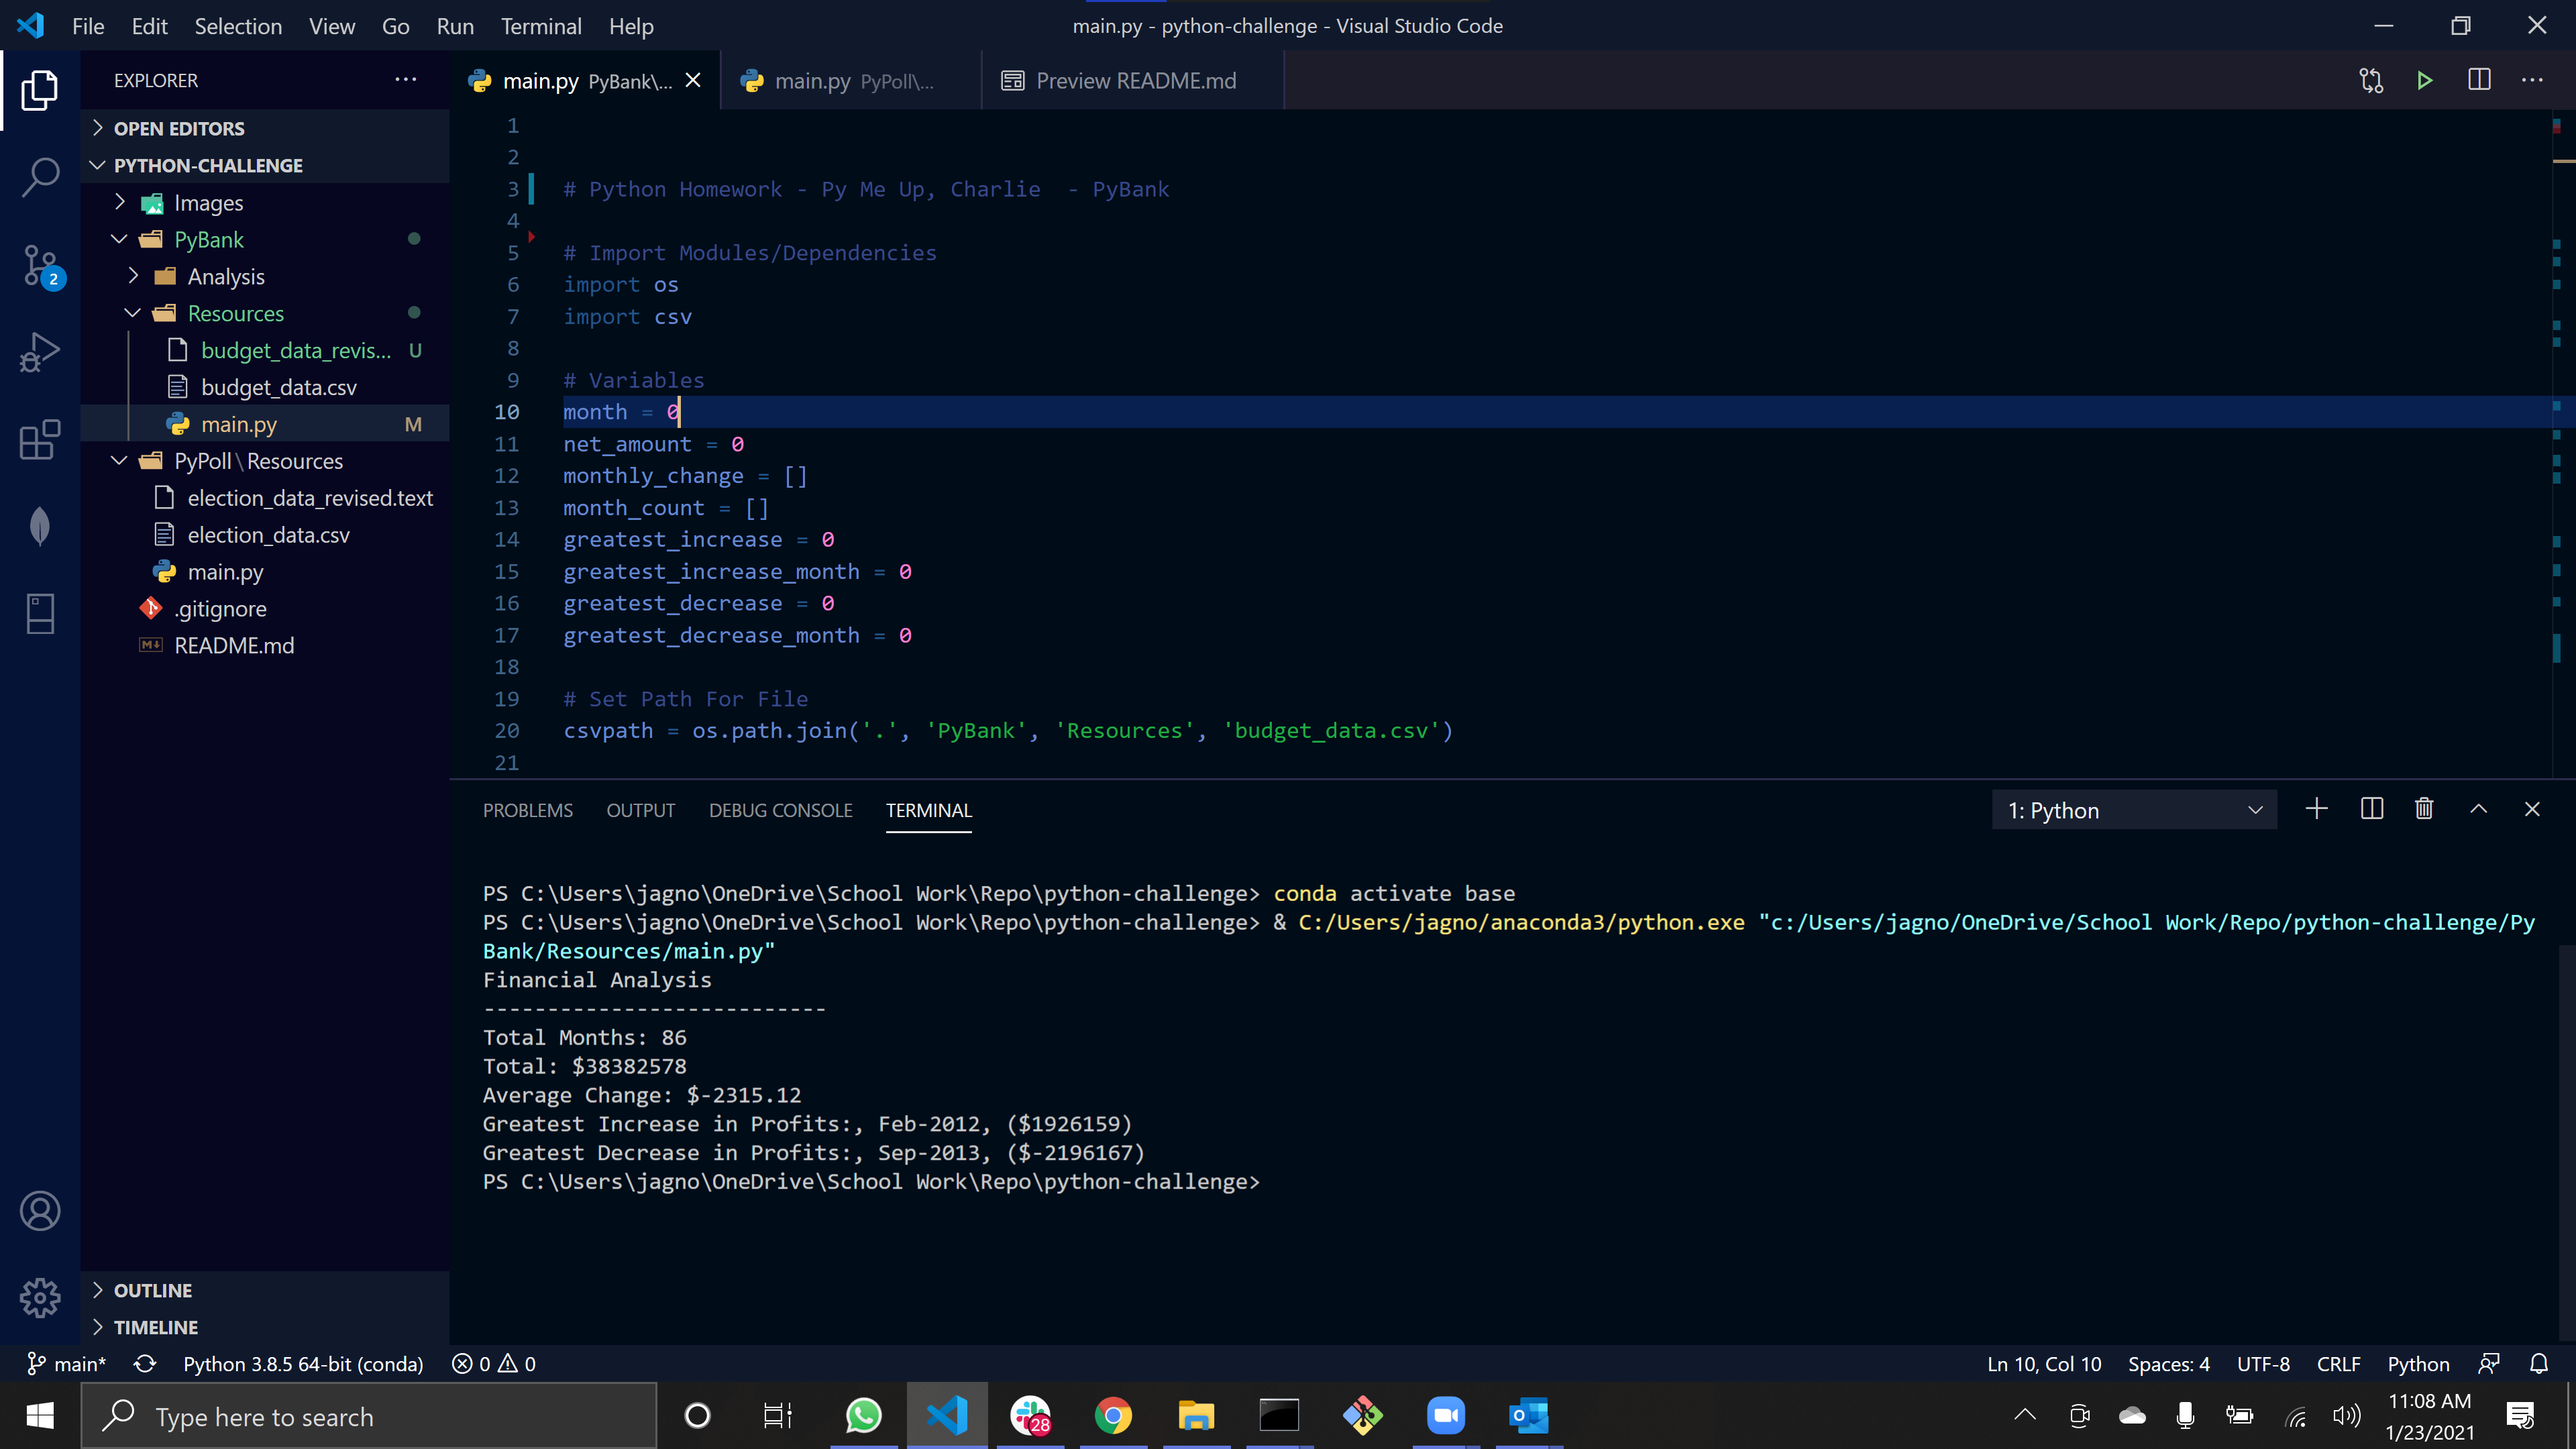
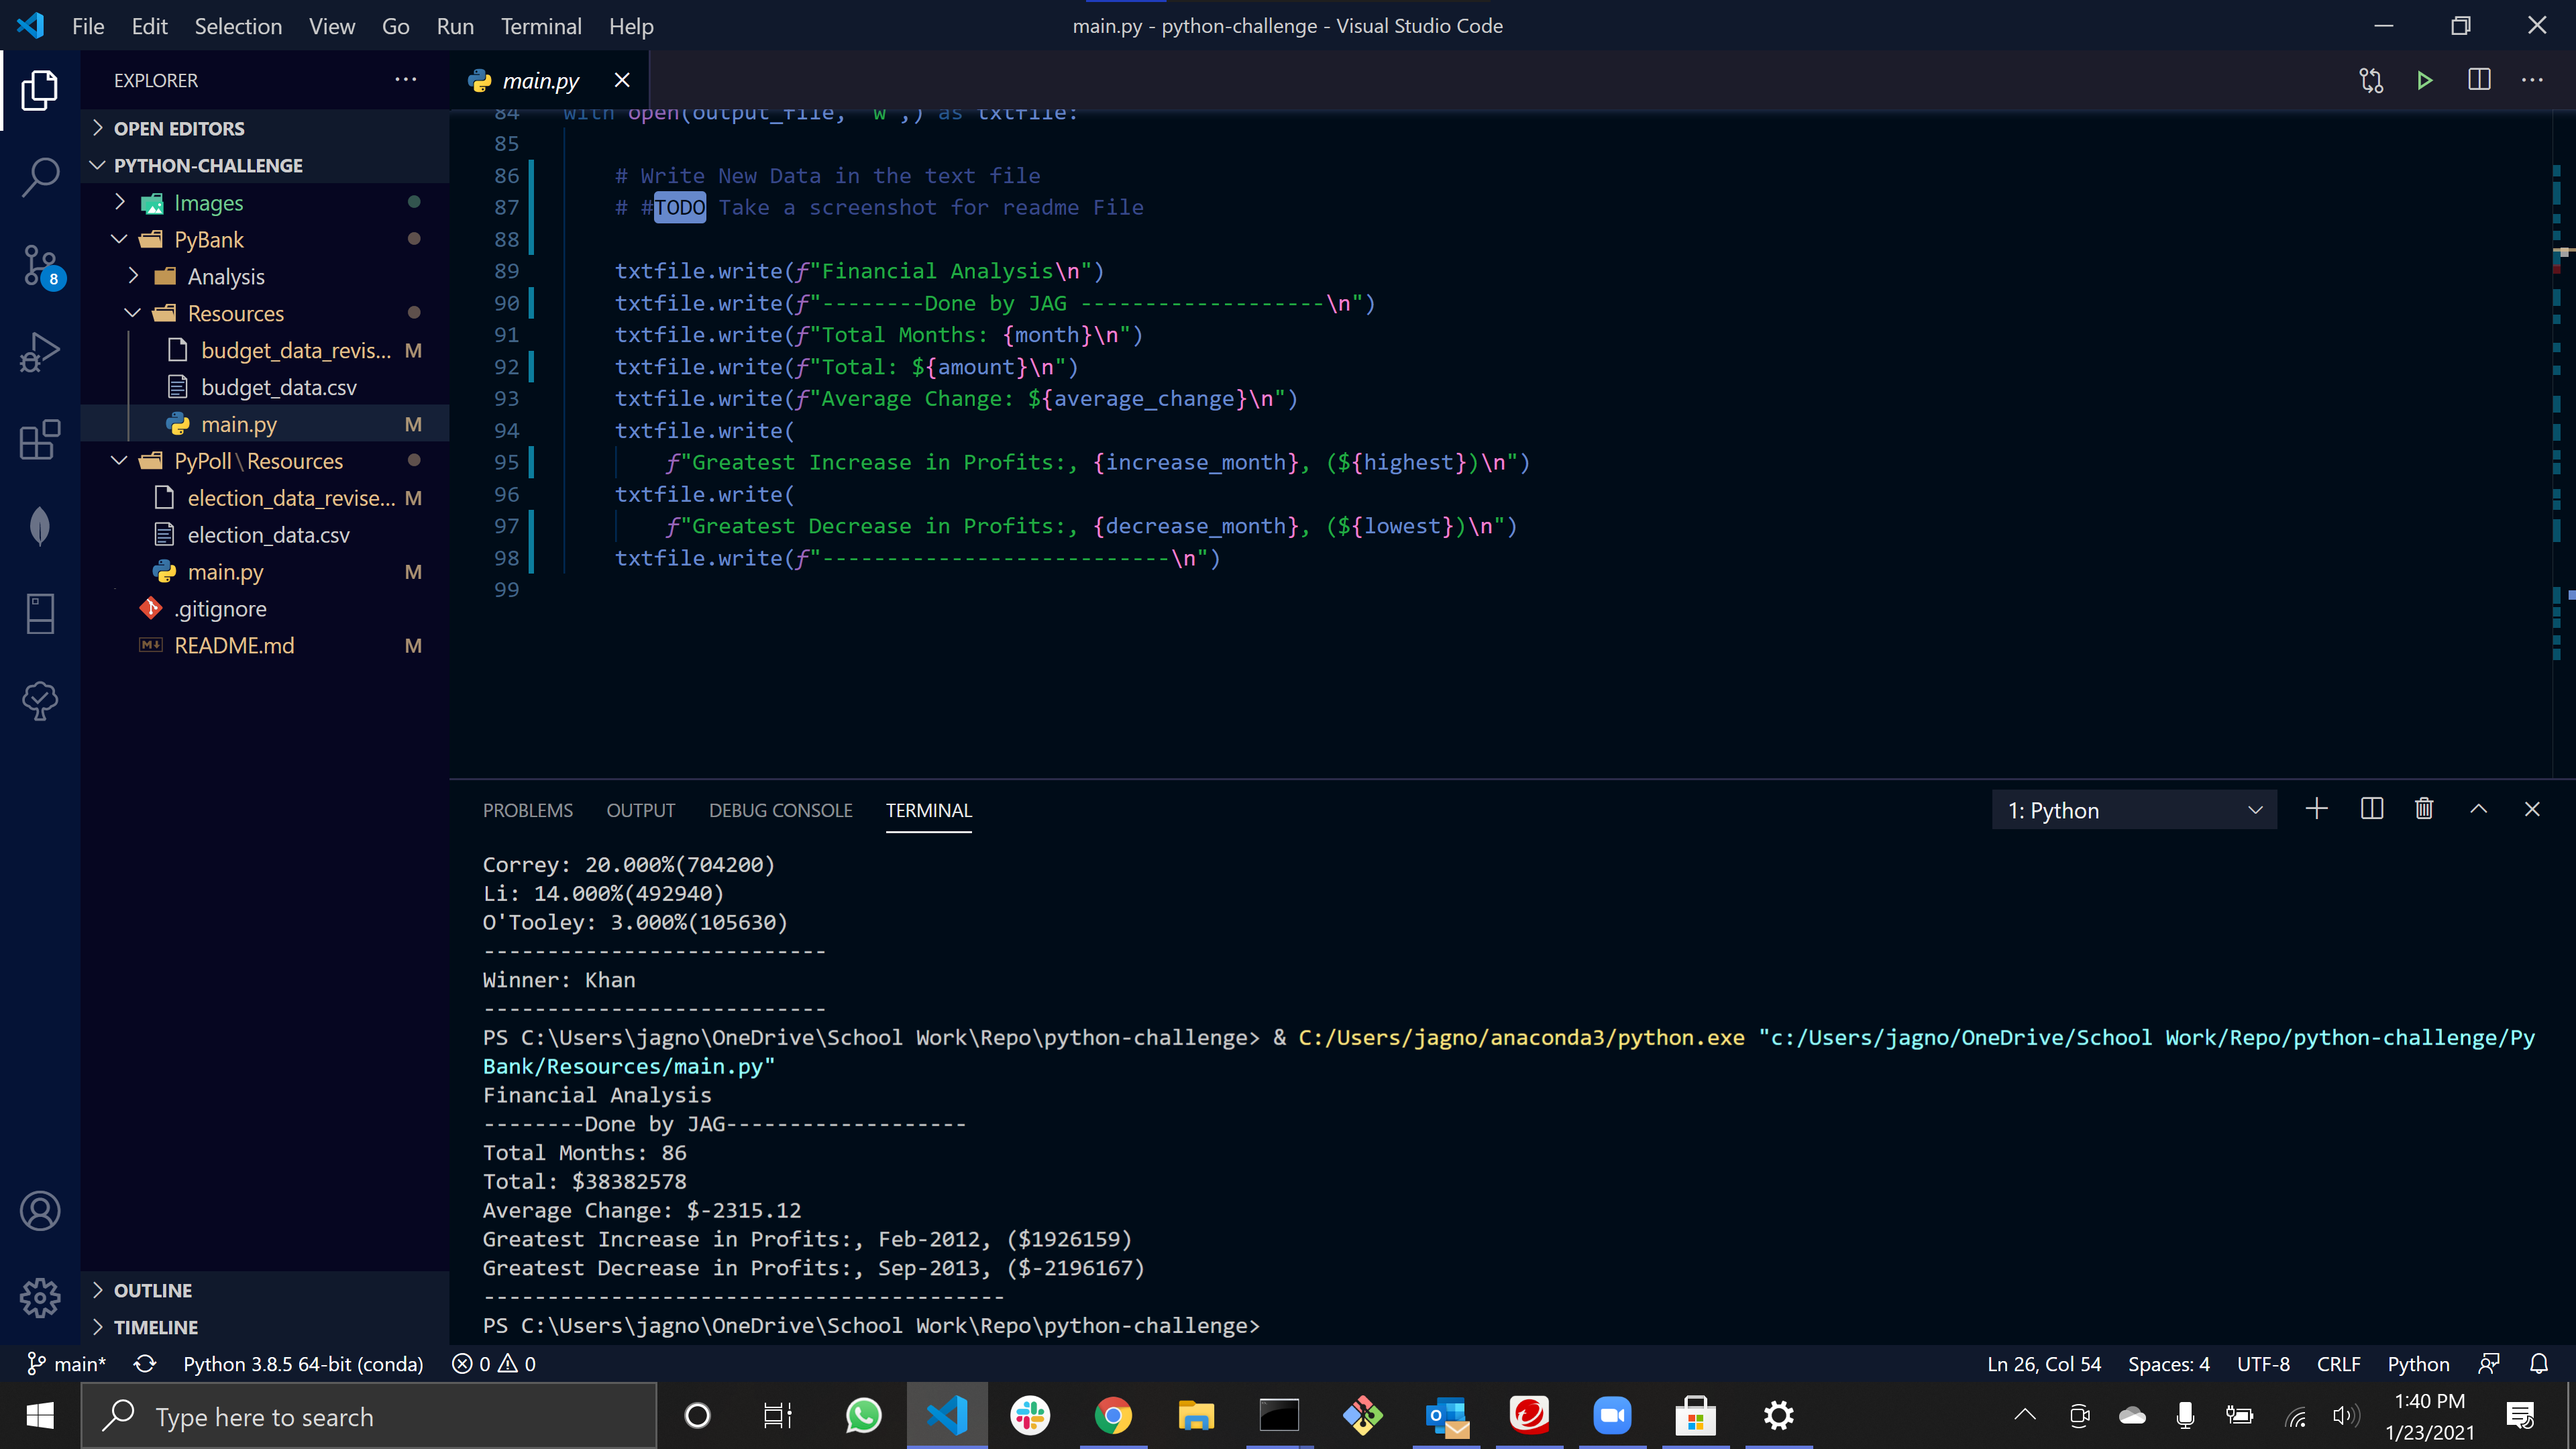
Looks complete, i think!!!

diff --git a/PyBank/Resources/main.py b/PyBank/Resources/main.py
@@ -8,73 +8,73 @@ import csv
 
 # Variables
 month = 0
-net_amount = 0
-monthly_change = []
+amount = 0
+change = []
 month_count = []
-greatest_increase = 0
-greatest_increase_month = 0
-greatest_decrease = 0
-greatest_decrease_month = 0
+increase = 0
+increase_month = 0
+decrease = 0
+decrease_month = 0
 
 # Set Path For File
-csvpath = os.path.join('.', 'PyBank', 'Resources', 'budget_data.csv')
+PyBankPath = os.path.join('.', 'PyBank', 'Resources', 'budget_data.csv')
 
 # Open & Read CSV File
-with open(csvpath, newline='') as csvfile:
+with open(PyBankPath, newline='') as csvfile:
 
     # CSV Reader Specifies Delimiter & Variable That Holds Contents
-    csvreader = csv.reader(csvfile, delimiter=',')
-
-    # Read The Header Row First (Skip This Step If There Is No Header)
-    csv_header = next(csvreader)
-    row = next(csvreader)
+    PyBankReader = csv.reader(csvfile, delimiter=',')
+    csv_header = next(PyBankReader)
+    row = next(PyBankReader)
 
     # Calculate Total Number Of Months, Net Amount Of "Profit/Losses" & Set Variables For Rows
     previous_row = int(row[1])
     month += 1
-    net_amount += int(row[1])
-    greatest_increase = int(row[1])
-    greatest_increase_month = row[0]
+    amount += int(row[1])
+    increase = int(row[1])
+    increase_month = row[0]
 
     # Read Each Row Of Data After The Header
-    for row in csvreader:
+    for row in PyBankReader:
 
         # Calculate Total Number Of Months Included In Dataset
         month += 1
         # Calculate Net Amount Of "Profit/Losses" Over The Entire Period
-        net_amount += int(row[1])
+        amount += int(row[1])
 
         # Calculate Change From Current Month To Previous Month
         revenue_change = int(row[1]) - previous_row
-        monthly_change.append(revenue_change)
+        change.append(revenue_change)
         previous_row = int(row[1])
         month_count.append(row[0])
 
         # Calculate The Greatest Increase
-        if int(row[1]) > greatest_increase:
-            greatest_increase = int(row[1])
-            greatest_increase_month = row[0]
+        if int(row[1]) > increase:
+            increase = int(row[1])
+            increase_month = row[0]
 
         # Calculate The Greatest Decrease
-        if int(row[1]) < greatest_decrease:
-            greatest_decrease = int(row[1])
-            greatest_decrease_month = row[0]
+        if int(row[1]) < decrease:
+            decrease = int(row[1])
+            decrease_month = row[0]
 
     # Calculate The Average & The Date
-    average_change = sum(monthly_change) / len(monthly_change)
+    average_change = sum(change) / len(change)
 
-    highest = max(monthly_change)
-    lowest = min(monthly_change)
+    highest = max(change)
+    lowest = min(change)
 
 # Print Analysis
 print(f"Financial Analysis")
-print(f"---------------------------")
+print(f"--------Done by JAG-------------------")
 print(f"Total Months: {month}")
-print(f"Total: ${net_amount}")
+print(f"Total: ${amount}")
 print(f"Average Change: ${average_change:.2f}")
 print(
-    f"Greatest Increase in Profits:, {greatest_increase_month}, (${highest})")
-print(f"Greatest Decrease in Profits:, {greatest_decrease_month}, (${lowest})")
+    f"Greatest Increase in Profits:, {increase_month}, (${highest})")
+print(f"Greatest Decrease in Profits:, {decrease_month}, (${lowest})")
+
+print(f"-----------------------------------------")
 
 # Specify File To Write To
 output_file = os.path.join('.', 'PyBank', 'Resources',
@@ -83,13 +83,16 @@ output_file = os.path.join('.', 'PyBank', 'Resources',
 # Open File Using "Write" Mode. Specify The Variable To Hold The Contents
 with open(output_file, 'w',) as txtfile:
 
-    # Write New Data
+    # Write New Data in the text file
+    # #TODO Take a screenshot for readme File
+
     txtfile.write(f"Financial Analysis\n")
-    txtfile.write(f"---------------------------\n")
+    txtfile.write(f"--------Done by JAG -------------------\n")
     txtfile.write(f"Total Months: {month}\n")
-    txtfile.write(f"Total: ${net_amount}\n")
+    txtfile.write(f"Total: ${amount}\n")
     txtfile.write(f"Average Change: ${average_change}\n")
     txtfile.write(
-        f"Greatest Increase in Profits:, {greatest_increase_month}, (${highest})\n")
+        f"Greatest Increase in Profits:, {increase_month}, (${highest})\n")
     txtfile.write(
-        f"Greatest Decrease in Profits:, {greatest_decrease_month}, (${lowest})\n")
+        f"Greatest Decrease in Profits:, {decrease_month}, (${lowest})\n")
+    txtfile.write(f"---------------------------\n")

diff --git a/PyPoll/Resources/main.py b/PyPoll/Resources/main.py
@@ -14,19 +14,19 @@ li_votes = 0
 otooley_votes = 0
 
 # Set Path For File
-csvpath = os.path.join('.', 'PyPoll', 'Resources', 'election_data.csv')
+PyPollPath = os.path.join('.', 'PyPoll', 'Resources', 'election_data.csv')
 
 # Open & Read CSV File
-with open(csvpath, newline='') as csvfile:
+with open(PyPollPath, newline='') as PyPollFile:
 
     # CSV Reader Specifies Delimiter & Variable That Holds Contents
-    csvreader = csv.reader(csvfile, delimiter=',')
+    PyPollReader = csv.reader(PyPollFile, delimiter=',')
 
     # Read The Header Row First (Skip This Step If There Is No Header)
-    csv_header = next(csvfile)
+    PyPoll_Header = next(PyPollFile)
 
     # Read Each Row Of Data After The Header
-    for row in csvreader:
+    for row in PyPollReader:
 
         # Calculate Total Number Of Votes Cast
         total_votes += 1
@@ -73,11 +73,11 @@ print(f"Winner: {winner_name}")
 print(f"---------------------------")
 
 # Specify File To Write To
-output_file = os.path.join('.', 'PyPoll', 'Resources',
+PyPoll_Output = os.path.join('.', 'PyPoll', 'Resources',
                            'election_data_revised.text')
 
 # Open File Using "Write" Mode. Specify The Variable To Hold The Contents
-with open(output_file, 'w',) as txtfile:
+with open(PyPoll_Output, 'w',) as txtfile:
 
     # Write New Data
     txtfile.write(f"Election Results\n")
@@ -90,4 +90,4 @@ with open(output_file, 'w',) as txtfile:
     txtfile.write(f"O'Tooley: {otooley_percent:.3%}({otooley_votes})\n")
     txtfile.write(f"---------------------------\n")
     txtfile.write(f"Winner: {winner_name}\n")
-    txtfile.write(f"---------------------------\n")
+    txtfile.write(f"---------'As declared by JAG'------------------\n")

diff --git a/README.md b/README.md
@@ -1,31 +1,5 @@
 # Python Homework - Py Me Up, Charlie
 
-## Background
-
-Well... you've made it!
-
-It's time to put away the Excel sheet and join the big leagues. Welcome to the world of programming with Python. In this homework assignment, you'll be using the concepts you've learned to complete the **two** Python Challenges, PyBank and PyPoll.
-
-Both of these challenges encompass a real-world situation where your newfound Python scripting skills can come in handy. These challenges are far from easy so expect some hard work ahead!
-
-### Before You Begin
-
-* Create a new repository for this project called `python-challenge`. **Do not add this homework to an existing repository**.
-
-* Clone the new repository to your computer.
-
-* Inside your local git repository, create a directory for each Python Challenge. Use folder names corresponding to the challenges: **PyBank** and  **PyPoll**.
-
-* Inside of each folder that you just created, add the following:
-
-  * A new file called `main.py`. This will be the main script to run for each analysis.
-  * A "Resources" folder that contains the CSV files you used. Make sure your script has the correct path to the CSV file.
-  * An "analysis" folder that contains your text file that has the results from your analysis.
-
-* Push the above changes to GitHub or GitLab.
-
-
-
 ## PyBank
 
 ![Revenue](Images/revenue-per-lead.png)
@@ -60,7 +34,8 @@ Both of these challenges encompass a real-world situation where your newfound Py
 
 Here is the output 
 
-![PyPoll](Images/PyPoll.png)
+![PyBank](Images/PyBank.png)
+![PyBank](Images/PyBankText.png)
 
 
 ## PyPoll
@@ -101,25 +76,8 @@ Here is the output
 
 Here is the output
 
-![PyBank](Images/PyBank.png)
-
-## Hints and Considerations
-
-* Consider what we've learned so far. To date, we've learned how to import modules like `csv`; to read and write files in various formats; to store contents in variables, lists, and dictionaries; to iterate through basic data structures; and to debug along the way. Using what we've learned, try to break down your tasks into discrete mini-objectives. This will be a _much_ better course of action than spending all your time looking for a solution on Stack Overflow.
-
-* As you will discover, for some of these challenges, the datasets are quite large. This was done purposefully, as it showcases one of the limits of Excel-based analysis. While our first instinct, as data analysts, is often to head straight into Excel, creating scripts in Python can provide us with more robust options for handling "big data".
-
-* Write one script for each dataset provided. Run your script separately to make sure that the code works for its respective dataset.
-
-* Feel encouraged to work in groups, but don't shortchange yourself by copying someone else's work. You get what you put in, and the art of programming is extremely unforgiving to moochers. Dig your heels in, burn the night oil, and learn this while you can! These are skills that will pay dividends in your future career.
-
-* Start early, and reach out for help often! Challenge yourself to identify _specific_ questions for your instructors and TAs. Don't resign yourself to simply saying, "I'm totally lost." If you need help, reach out because we're happy to help. But, come prepared and show us what you have done and your thought process.
-
-* Always commit your work and back it up with GitHub/GitLab pushes. You don't want to lose hours of your work because you didn't push it to GitHub/GitLab every half hour or so.
-
-  * Ensure your repository has regular commits (i.e. 20+ commits) and a thorough README.md file
-
-
+![PyPoll](Images/PyPoll.png)
+![PyPoll](Images/PyPollText.png)
 
 ## Copyright
 
